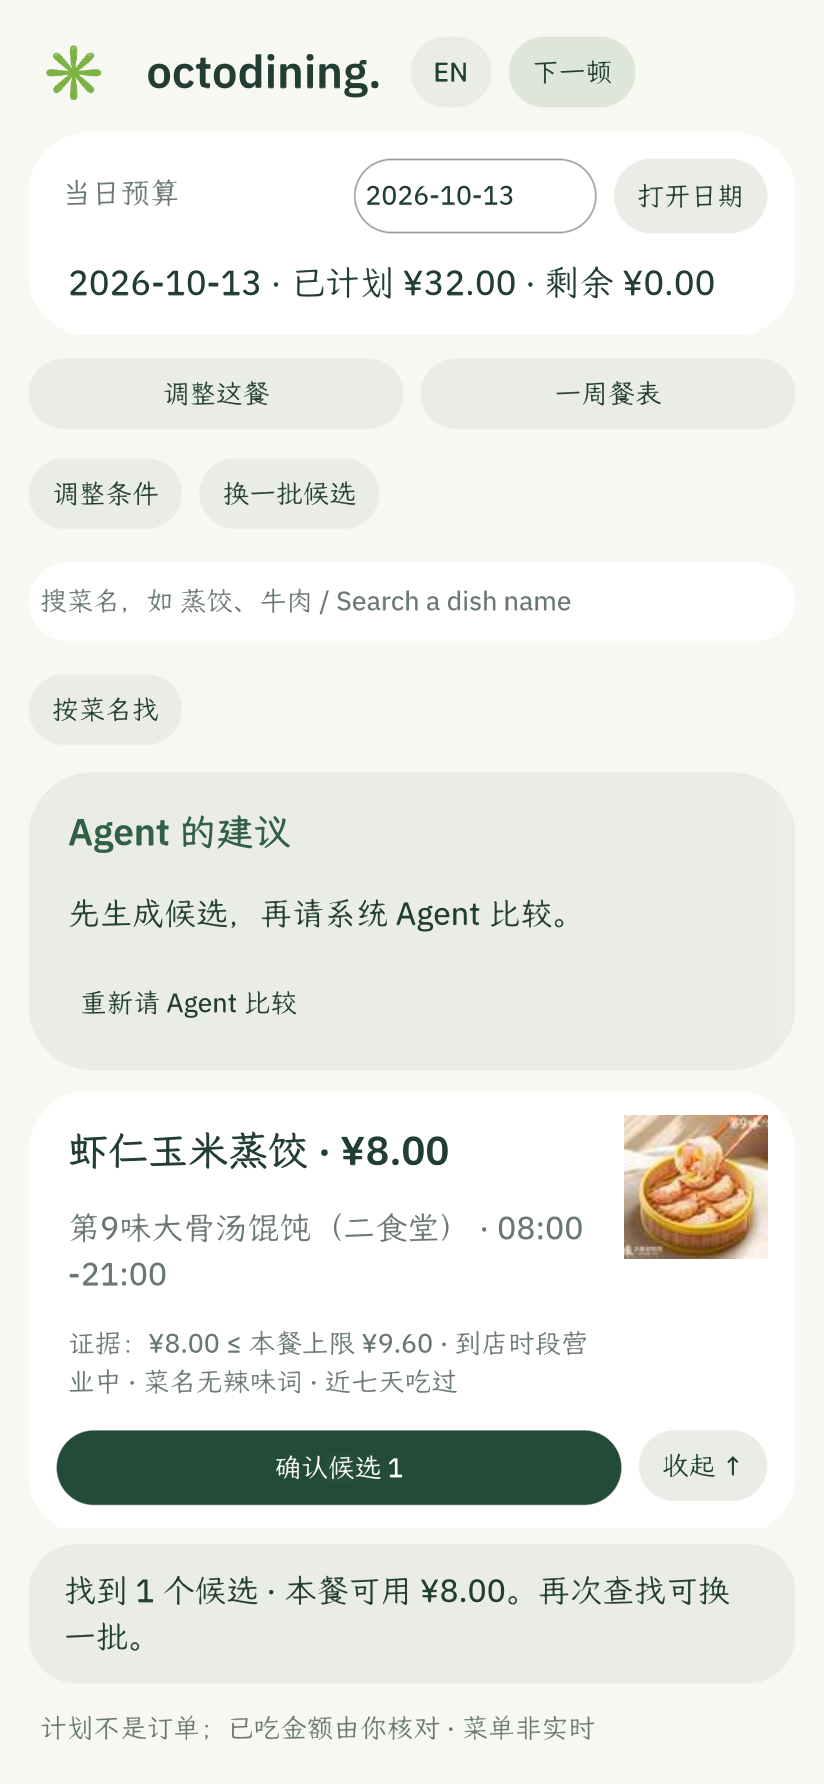
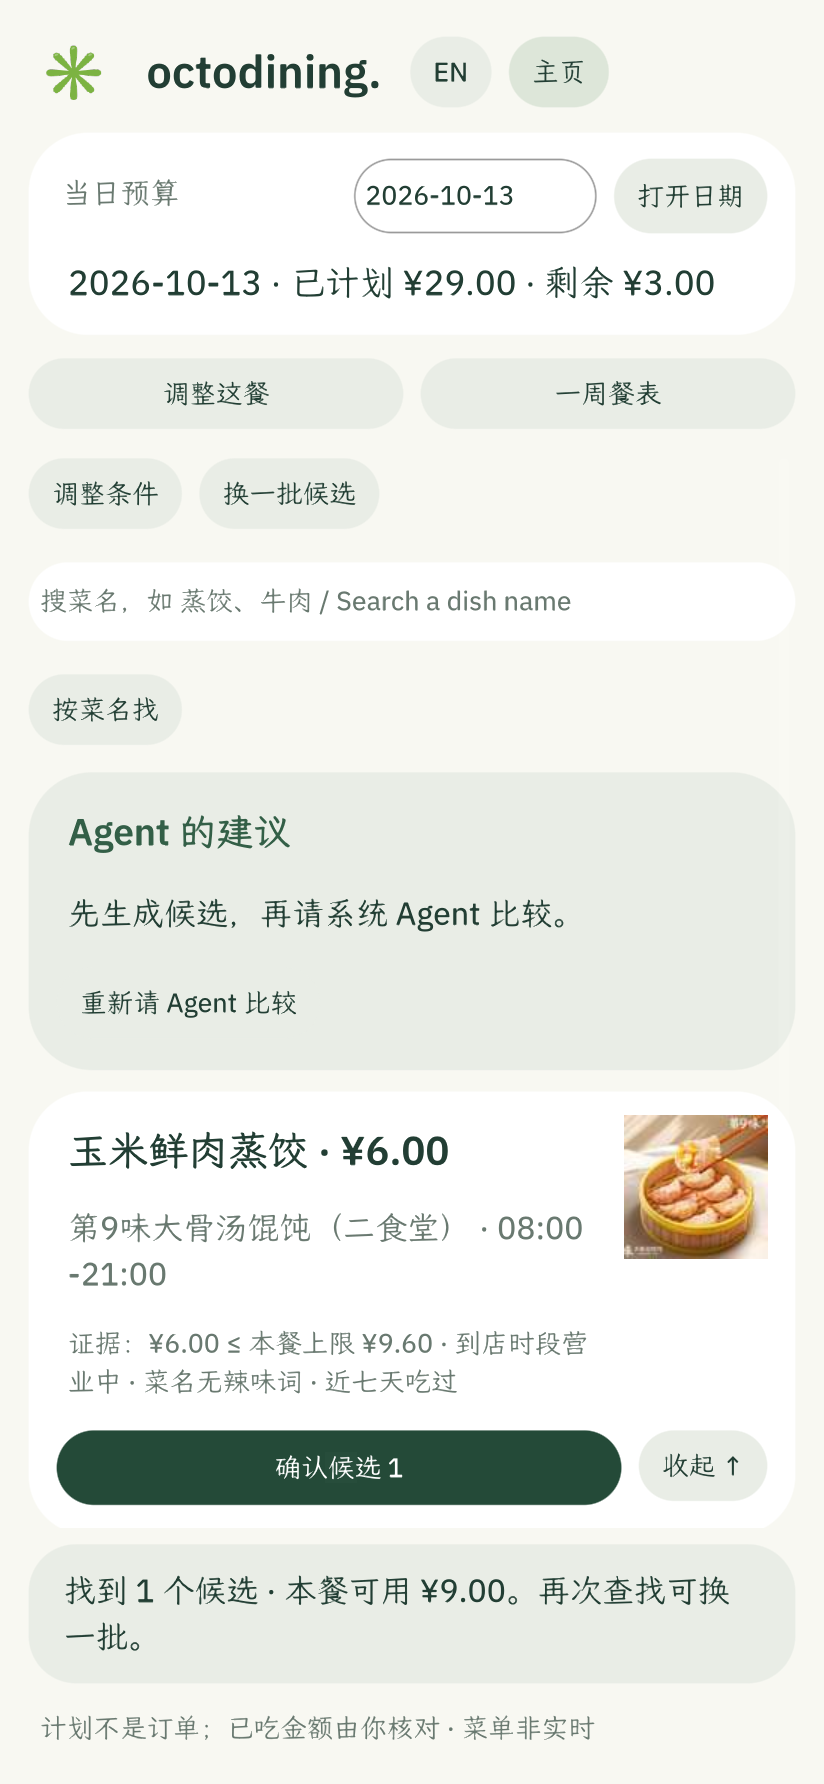
1.11.5: rename week-plan back button to 主页/Home
The top-bar button that returns from the week-plan and settings pages
to the home page was labeled 下一顿/Next meal, which read as a jump to
the next meal suggestion rather than a way back. Renamed to 主页/Home;
navigation behavior unchanged (go_next_meal still lands on the next
planned slot).

All eight card-host regression suites pass (basic run inside canteen
hours); listing screenshots re-captured zh+en, rebalance shot from the
same-day acceptance run. hub check PASSED after restamp and windy664
re-sign.

diff --git a/docs/CONTEST_READINESS.md b/docs/CONTEST_READINESS.md
@@ -1,6 +1,6 @@
 # 参赛准备状态
 
-更新：2026-10-12。**初赛入围（80/100）**，评审意见与决赛前改进清单见[初赛结果](PRELIMINARY-RESULT.md)。当前工作版 **1.11.3**：内置菜单来源匿名化为「广州某高校」（应用文案、App Hub 资料、菜单数据与参考实现同步替换，商品与价格内容不变）。1.11.2 把餐表日卡改为按早餐/午餐/晚餐/加餐排序（原先按确认顺序，先订晚餐再补早餐会倒挂；仅渲染层排序，存储不变），新增 test-slot-order 回归（先确认晚餐再补早餐，断言早餐在前）。1.11.1 在 1.11.0 基础上做界面精简——当日预算卡并入日期编辑（删除独立日期卡）、周预算两行合并为一行并给进度格加说明、「记录已吃」升为实心主按钮（修改/取消收为次要）、移除滞留的「语言已切换」状态卡；并修复周窗口锚点缺陷——下午/晚间用完当日餐次后日期随「下一顿」切到明天，原实现中周预算与超支预警窗口排除今天，当天实付超支不再提醒；现周预算、超支预警与重平衡统一锚定今天（回看过去日期仍跟随所选日期）。Agent 调用逻辑不变。1.11.0 在 1.10.0（推荐来源行、候选详情面板、本周预算进度条、首页可滚动化）之上新增——周超支一键重平衡（本地引擎逐条提出更便宜的替换，或取消加餐/早餐，午晚正餐从不取消；用户确认后才写入并读回核验）、本周预算条按「已吃计实付、待吃计计划价」计入、未打卡跟进提醒（过去 7 天计划未确认）、菜单快照超 30 天过期提醒。以 OctoSense Shell / OctoScript 为主线。Rinx 分享是可选扩展，App Hub 是包检查与提交规范；它们不要求一起实现。应用先完成真实餐食任务，再展示 Agent 决策及结果核验。[按最佳 Agentic 评分项核验](AGENTIC_JUDGING.md)：1.2.2 的真实模型闭环与 1.7.0 的失败回退分版呈现。最新[App Hub 投稿状态与步骤](APP_HUB_SUBMISSION.md)单独记录。
+更新：2026-10-13。**初赛入围（80/100）**，评审意见与决赛前改进清单见[初赛结果](PRELIMINARY-RESULT.md)。当前工作版 **1.11.5**：餐表与设置页的返回按钮由「下一顿」改名为「主页」（英文 "Home"），旧标签易被误解为跳到下一餐推荐；导航行为不变，八套回归全绿，截图重截。1.11.4 把新手引导改为先生成一周餐表草案、确认后才写入（plan-first），并修复舍弃草案后旧生成任务回填的竞态。1.11.3 内置菜单来源匿名化为「广州某高校」（应用文案、App Hub 资料、菜单数据与参考实现同步替换，商品与价格内容不变）。1.11.2 把餐表日卡改为按早餐/午餐/晚餐/加餐排序（原先按确认顺序，先订晚餐再补早餐会倒挂；仅渲染层排序，存储不变），新增 test-slot-order 回归（先确认晚餐再补早餐，断言早餐在前）。1.11.1 在 1.11.0 基础上做界面精简——当日预算卡并入日期编辑（删除独立日期卡）、周预算两行合并为一行并给进度格加说明、「记录已吃」升为实心主按钮（修改/取消收为次要）、移除滞留的「语言已切换」状态卡；并修复周窗口锚点缺陷——下午/晚间用完当日餐次后日期随「下一顿」切到明天，原实现中周预算与超支预警窗口排除今天，当天实付超支不再提醒；现周预算、超支预警与重平衡统一锚定今天（回看过去日期仍跟随所选日期）。Agent 调用逻辑不变。1.11.0 在 1.10.0（推荐来源行、候选详情面板、本周预算进度条、首页可滚动化）之上新增——周超支一键重平衡（本地引擎逐条提出更便宜的替换，或取消加餐/早餐，午晚正餐从不取消；用户确认后才写入并读回核验）、本周预算条按「已吃计实付、待吃计计划价」计入、未打卡跟进提醒（过去 7 天计划未确认）、菜单快照超 30 天过期提醒。以 OctoSense Shell / OctoScript 为主线。Rinx 分享是可选扩展，App Hub 是包检查与提交规范；它们不要求一起实现。应用先完成真实餐食任务，再展示 Agent 决策及结果核验。[按最佳 Agentic 评分项核验](AGENTIC_JUDGING.md)：1.2.2 的真实模型闭环与 1.7.0 的失败回退分版呈现。最新[App Hub 投稿状态与步骤](APP_HUB_SUBMISSION.md)单独记录。
 
 已知问题与平台限制（1.10.0）：确认过一个脚本 VM 限制：`if …{ for … } else { … }` 结构会在运行时栈失衡并丢弃所在 `on_render` 的全部输出（表现为周餐表餐次按钮消失），已改为两个独立 `if` 规避（`e732264`），最小复现已上报上游 [OctoSense#492](https://github.com/OctoSense-org/OctoSense/issues/492)。另确认当前 Makepad 脚本接口中 CheckBox 没有 `set_checked` 方法，误调会中断所在事件处理器（曾导致切换语言后周餐表按钮不刷新、footer 等文案不更新），设置页提醒开关已改为文字按钮规避，已上报 [OctoSense#493](https://github.com/OctoSense-org/OctoSense/issues/493)。两者均带可运行复现，可作为"项目反哺"证据。1.10.0 开发中曾观察到：远程桥驱动下候选列表的 `on_render` 循环里，处于循环体末尾或并列的 `if { 视图 }` 在 snap 中缺失。2026-10-12 用最小复现（滚动容器 + 卡片 + 按钮闭包 + 末尾/并列 `if`）在 card-host 上**未能重现**，全部视图正常渲染；当时的现象更可能来自远程桥快速滚动下的懒布局抖动（子节点暂时丢出 snap），而非确定性的渲染丢失。候选详情仍保留固定面板 + `set_visible`/`set_text` 模式（更稳、可测），但不再把它当作平台缺陷，也未向上游报告。
 

diff --git a/README.md b/README.md
@@ -8,17 +8,17 @@
 
 **评委先看 Agent 闭环：** [15 秒 1.2.2 真实 Agent 证据剪辑](docs/demo/octodining-122-agent-evidence-reel.mp4) · [同一次 Shell 联调原始记录和三张截图](docs/evidence/shell-ui122-minimax-20261004.json) · [按评分项核验](docs/AGENTIC_JUDGING.md)。MiniMax-M3 在已有晚餐计划上比较候选并建议候选 3；用户亲自确认，应用保存计划并读回核验。剪辑由真实截图制成，并非连续录屏。**1.7.0 的 Shell 测试遭遇 429，没有取得同版模型建议**；下方 1.7.0 画面用于展示后续产品功能，不能与 1.2.2 Agent 证据视作同一次运行。**当前签名版 1.11.1 的整周 Agent 闭环录屏**（真实 MiniMax-M3 提议、应用到草案、确认读回；录于 1.11.0，1.11.1 为界面精简与周窗口锚点修复、Agent 调用逻辑相同）：[帧缓冲录屏与关键帧](docs/evidence/shell-week-agent-1110-20261012.md)。
 
-**当前 1.11.4 界面**（card-host 原生截图，非模型证据；[画面与改动说明](docs/evidence/ui-planfirst-1114-20261012.md)）：
+**当前 1.11.5 界面**（card-host 原生截图，非模型证据；[画面与改动说明](docs/evidence/ui-nav-1115-20261013.md)）：
 
 | 首次使用 | 引导完成 · 首周餐表草案 | 确认后的一周餐表 |
 | :---: | :---: | :---: |
-| <img src="docs/evidence/ui-planfirst-1114-20261012/00-first-run-setup.png" alt="首次引导" width="250"> | <img src="docs/evidence/ui-planfirst-1114-20261012/01-first-week-draft.png" alt="引导结束即生成待确认的一周餐表草案" width="250"> | <img src="docs/evidence/ui-planfirst-1114-20261012/03-week-plan-confirmed.png" alt="确认后写入并读回的一周餐表" width="250"> |
+| <img src="docs/evidence/ui-nav-1115-20261013/00-first-run-setup.png" alt="首次引导" width="250"> | <img src="docs/evidence/ui-nav-1115-20261013/01-first-week-draft.png" alt="引导结束即生成待确认的一周餐表草案" width="250"> | <img src="docs/evidence/ui-nav-1115-20261013/03-week-plan-confirmed.png" alt="确认后写入并读回的一周餐表，顶栏为「主页」返回按钮" width="250"> |
 
 | 首页 · 餐表中的下一餐 | 候选 · 约束证据 | 超支 · 一键重平衡 |
 | :---: | :---: | :---: |
-| <img src="docs/evidence/ui-planfirst-1114-20261012/01b-home-planned.png" alt="首页显示餐表里的下一餐" width="250"> | <img src="docs/evidence/ui-planfirst-1114-20261012/02-candidates.png" alt="候选与约束证据" width="250"> | <img src="docs/evidence/week-rebalance-20261012/rebalance-proposal.png" alt="周超支预警与省钱调整方案" width="250"> |
+| <img src="docs/evidence/ui-nav-1115-20261013/01b-home-planned.png" alt="首页显示餐表里的下一餐" width="250"> | <img src="docs/evidence/ui-nav-1115-20261013/02-candidates.png" alt="候选与约束证据" width="250"> | <img src="docs/evidence/ui-nav-1115-20261013/rebalance-proposal.png" alt="周超支预警与省钱调整方案" width="250"> |
 
-重平衡画面来自自动化验收运行（[说明与断言](docs/evidence/week-rebalance-20261012.md)），不是摆拍；该面板在 1.11.4 未变动。
+1.11.5 改动仅一处：餐表与设置页的返回按钮由「下一顿」改名为「主页」（英文 "Home"），导航行为不变；重平衡画面取自当日验收运行（[说明与断言](docs/evidence/week-rebalance-20261012.md)），不是摆拍。1.11.4 的引导即规划改动见[上一版界面说明](docs/evidence/ui-planfirst-1114-20261012.md)。
 
 以下为 1.7.0 **card-host 原生运行截图**；不是 OctoSense Shell 的模型联调证据。[更多截图与验证](docs/evidence/next-meal-170-20261005.md)。
 

diff --git a/docs/evidence/ui-nav-1115-20261013.md b/docs/evidence/ui-nav-1115-20261013.md
@@ -1,0 +1,11 @@
+# 1.11.5 界面：返回按钮改名「主页 / Home」
+
+2026-10-13 上午，card-host 原生截图（MAKEPAD_WRITE_FRAMEBUFFER_PNG 帧缓冲），`scripts/capture-card-host.py` 全自动驱动，无摆拍；模型与 Shell 不在此脚本范围内。
+
+1.11.5 只做一件事：餐表页与设置页顶栏的返回按钮由「下一顿 / Next meal」改名为「主页 / Home」。旧标签容易被误解为"跳到下一餐推荐"，用户站在餐表页时找不到回主页的入口；导航行为不变（仍回到主页并定位到下一餐）。
+
+- `03-week-plan-confirmed.png`：餐表页顶栏右侧为「主页」（中文界面）。
+- `en-01b-home-planned.png` 的对照面：主页顶栏显示「Week」，进入餐表后变为「Home」（见 bundle 截图 03 的英文版顶栏）。
+- 其余画面与 1.11.4 一致：引导（00）、一周草案（01）、计划餐首页（01b）、候选与详情（02/02b）、重平衡（rebalance-proposal，取自当日 test-rebalance 验收运行）。
+
+对应回归：八套 card-host 套件 2026-10-13 09:14 全绿（basic 含时段断言，在食堂营业时段内运行）；测试按节点 id 点击，不受标签改名影响。
